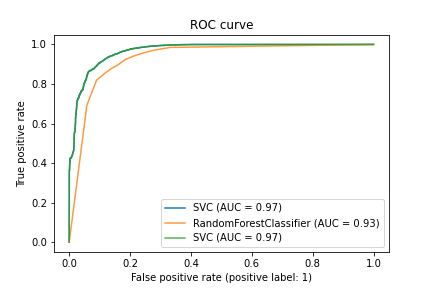
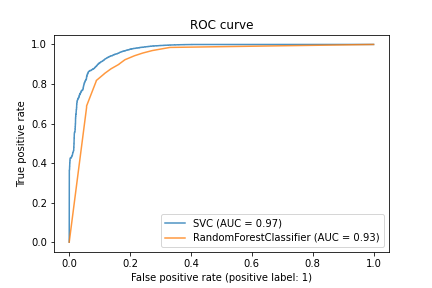
Feature importance

diff --git a/Model.py b/Model.py
@@ -17,14 +17,19 @@ from sklearn.ensemble import RandomForestClassifier
 rfc = RandomForestClassifier(n_estimators=10, random_state=42)
 rfc.fit(X_train, y_train)
 
+#Predictions
+predicted_SVM = SVM.predict(X_test)
+y_pred_proba_SVM =SVM.predict_proba(X_test)[:,-1]
+predicted_rfc = rfc.predict(X_test)
+y_pred_proba_rfc =rfc.predict_proba(X_test)[:,-1]
 
-predicted = SVM.predict(X_test)
-y_pred_proba =SVM.predict_proba(X_test)[:,-1]
-false_positive_rate, true_positive_rate, thresholds = roc_curve(y_test, y_pred_proba)
-roc_curve_plot = metrics.plot_roc_curve(SVM, X_test, y_test) 
+#------- MODEL PERFORMANCE-------
+
+# Roc and Auc
+false_positive_rate, true_positive_rate, thresholds = roc_curve(y_test, y_pred_proba_SVM)
+roc_curve_plot = metrics.plot_roc_curve(SVM, X_test, y_test, alpha = 0.8)
 ax = plt.gca()
 rfc_disp = metrics.plot_roc_curve(rfc, X_test, y_test, ax=ax, alpha=0.8)
-roc_curve_plot.plot(ax=ax, alpha=0.8)
 plt.title('ROC curve')
 plt.ylabel('True positive rate')
 plt.xlabel('False positive rate (positive label: 1)')
@@ -33,34 +38,42 @@ plt.xlabel('False positive rate (positive label: 1)')
 plt.savefig('ROC curve')
 plt.show()
 
-#Veiem que se li dona bé distingir 
-print('a')
+
+# Ploting metrics extracted from Confusion matrix and CM itserlffor SVM
 print(
     f"Classification report for classifier {SVM}:\n"
-    f"{metrics.classification_report(y_test, predicted)}\n"
+    f"{metrics.classification_report(y_test, predicted_SVM)}\n"
 )
 
-###############################################################################
-# We can also plot a :ref:`confusion matrix <confusion_matrix>` of the
 # true digit values and the predicted digit values.
+disp = ConfusionMatrixDisplay.from_predictions(y_test, predicted_SVM)
+disp.figure_.suptitle("Confusion Matrix for SVM")
+print(f"Confusion matrix for SVM:\n{disp.confusion_matrix}")
 
-disp = ConfusionMatrixDisplay.from_predictions(y_test, predicted)
-disp.figure_.suptitle("Confusion Matrix")
-print(f"Confusion matrix:\n{disp.confusion_matrix}")
-
-plt.savefig('ConfusionMatrix')
+plt.savefig('ConfusionMatrix for SVM')
 plt.show()
 
 
+# Ploting metrics extracted from Confusion matrix and CM itserlffor rfc
+print(
+    f"Classification report for classifier {rfc}:\n"
+    f"{metrics.classification_report(y_test, predicted_rfc)}\n"
+)
 
-#%%
-# Compute ROC curve and ROC area for each class
-fpr = dict()
-tpr = dict()
-roc_auc = dict()
-fpr, tpr, _ = roc_curve(y_test, predicted)
-roc_auc = auc(fpr, tpr)
- 
+# true digit values and the predicted digit values.
+disp = ConfusionMatrixDisplay.from_predictions(y_test, predicted_rfc)
+disp.figure_.suptitle("Confusion Matrix for rfc")
+print(f"Confusion matrix for rfc:\n{disp.confusion_matrix}")
+
+plt.savefig('ConfusionMatrix for rfc')
+plt.show()
+
+
+ # %%
+ #---------Feature importance--------
+feature_names = ['ECG_HR', 'NIBP_MEAN','PROPO_CE', 'REMI_CE']
+importances = rfc.feature_importances_
+plt.pie(importances, labels = feature_names)
 
  # %%
  #Saving our model
